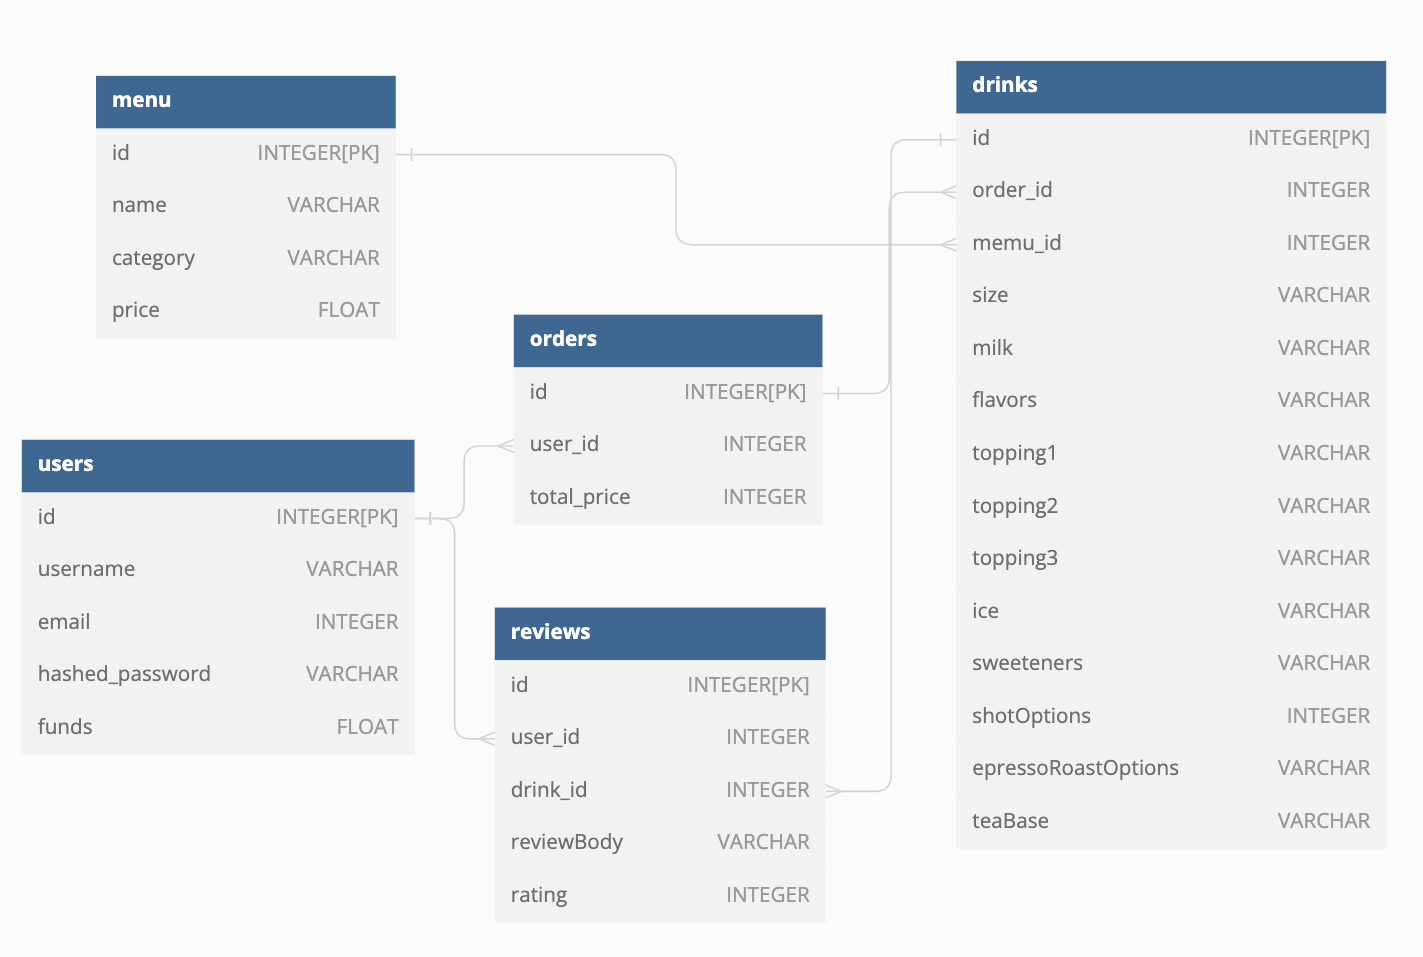
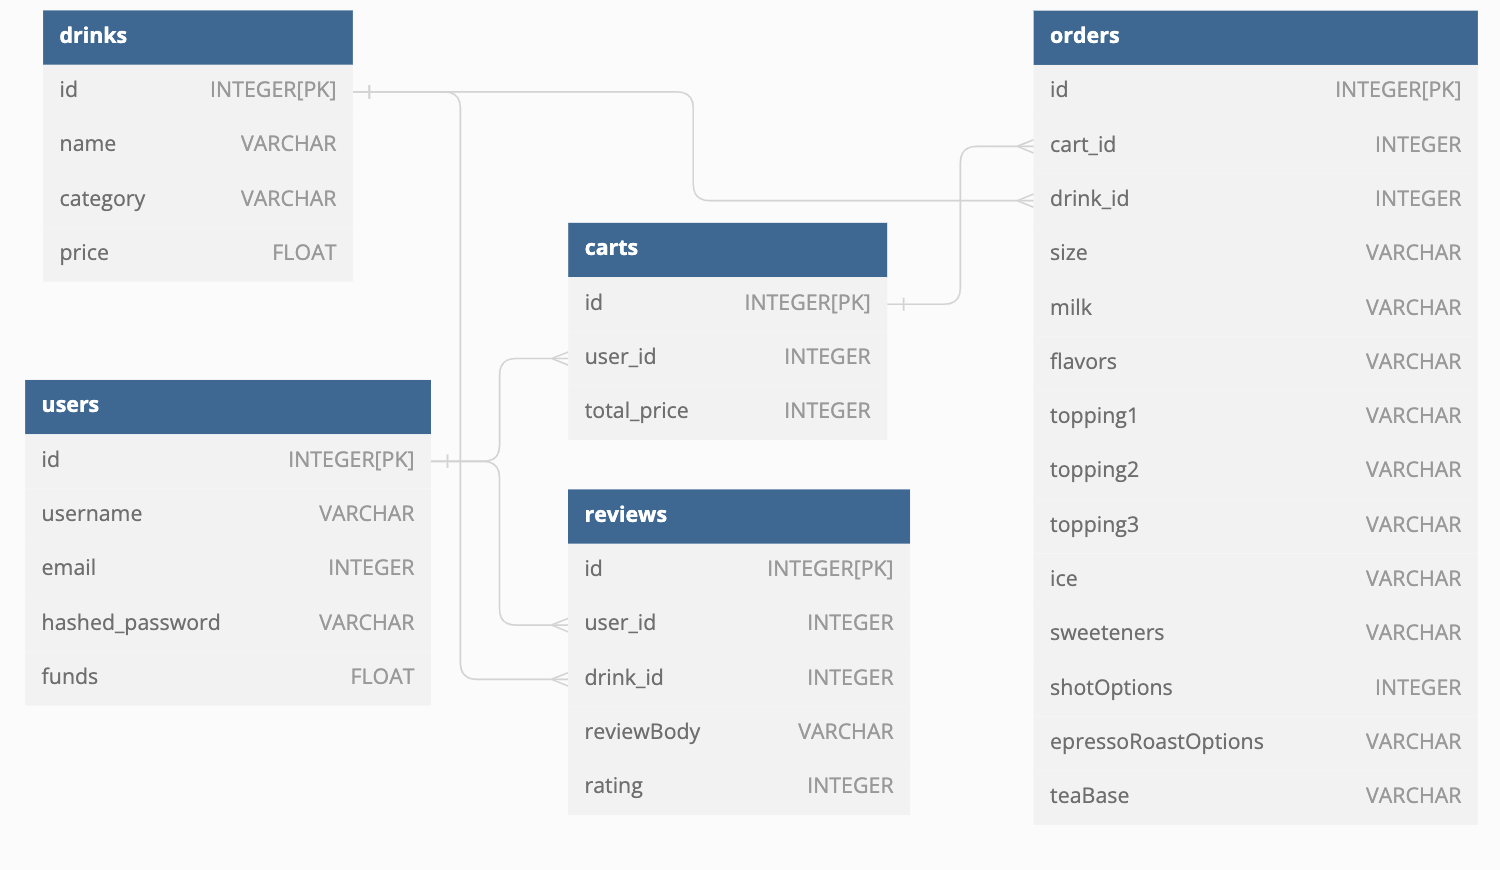
added order model

diff --git a/app/models/order.py b/app/models/order.py
@@ -1,0 +1,28 @@
+from .db import db, environment, SCHEMA, add_prefix_for_prod
+
+class Order (db.Model):
+    __tablename__ = 'orders'
+
+    if environment == "production":
+        __table_args__ = {'schema': SCHEMA}
+
+    id = db.Column(db.Integer, primary_key=True)
+    size = db.Column(db.String(40), nullable=False)
+    milk = db.Column(db.String(255), nullable=False)
+    flavors = db.Column(db.String(255), nullable=False)
+    topping1 = db.Column(db.String(255), nullable=False)
+    topping2 = db.Column(db.String(255), nullable=False)
+    topping3 = db.Column(db.String(255), nullable=False)
+    ice = db.Column(db.String(255), nullable=False)
+    sweeteners = db.Column(db.String(255), nullable=False)
+    shotOptions = db.Column(db.Integer, nullable=False)
+    expressoRoastOptions = db.Column(db.String, nullable=False)
+    teaBase = db.Column(db.String, nullable=False)
+
+    def to_dict(self):
+        return {
+            'id': self.id,
+            'name': self.name,
+            'category': self.category,
+            'price': self.price
+        }

diff --git a/app/models/menu.py b/app/models/menu.py
@@ -1,0 +1,21 @@
+from .db import db, environment, SCHEMA, add_prefix_for_prod
+
+class Drink (db.Model):
+    __tablename__ = 'drinks'
+
+    if environment == "production":
+        __table_args__ = {'schema': SCHEMA}
+
+    id = db.Column(db.Integer, primary_key=True)
+    name = db.Column(db.String(40), nullable=False)
+    category = db.Column(db.String(255), nullable=False)
+    price = db.Column(db.Float, nullable=False)
+
+
+    def to_dict(self):
+        return {
+            'id': self.id,
+            'name': self.name,
+            'category': self.category,
+            'price': self.price
+        }

diff --git a/app/models/cart.py b/app/models/cart.py
@@ -1,0 +1,21 @@
+from .db import db, environment, SCHEMA, add_prefix_for_prod
+
+class Cart (db.Model):
+    __tablename__ = 'carts'
+
+    if environment == "production":
+        __table_args__ = {'schema': SCHEMA}
+
+    id = db.Column(db.Integer, primary_key=True)
+    name = db.Column(db.String(40), nullable=False)
+    category = db.Column(db.String(255), nullable=False)
+    price = db.Column(db.Float, nullable=False)
+
+
+    def to_dict(self):
+        return {
+            'id': self.id,
+            'name': self.name,
+            'category': self.category,
+            'price': self.price
+        }

diff --git a/app/models/user.py b/app/models/user.py
@@ -13,6 +13,7 @@ class User(db.Model, UserMixin):
     username = db.Column(db.String(40), nullable=False, unique=True)
     email = db.Column(db.String(255), nullable=False, unique=True)
     hashed_password = db.Column(db.String(255), nullable=False)
+    funds = db.Column(db.Float, nullable=False)
 
     @property
     def password(self):
@@ -29,5 +30,6 @@ class User(db.Model, UserMixin):
         return {
             'id': self.id,
             'username': self.username,
-            'email': self.email
+            'email': self.email,
+            'funds': self.funds
         }
